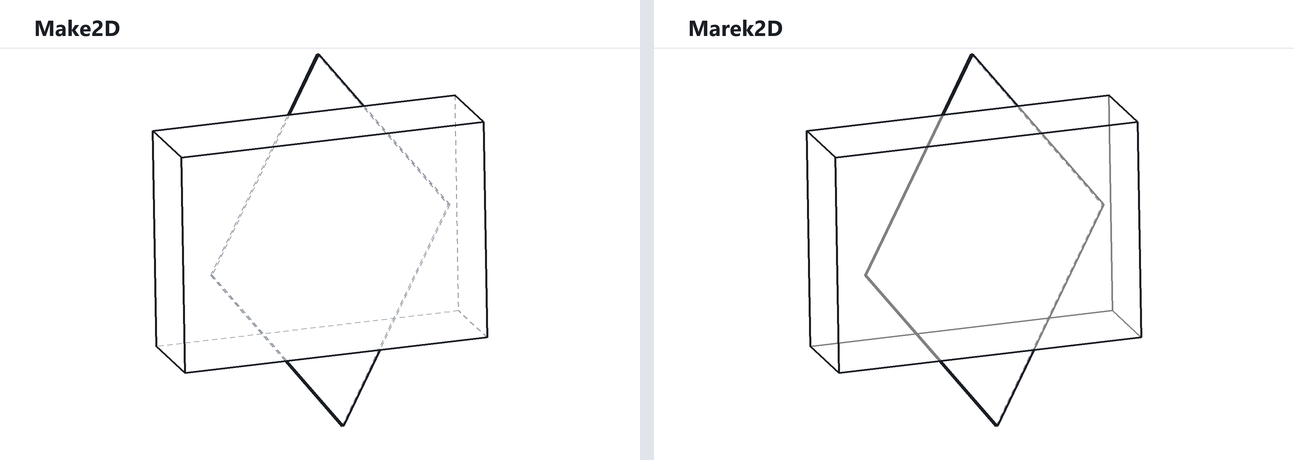
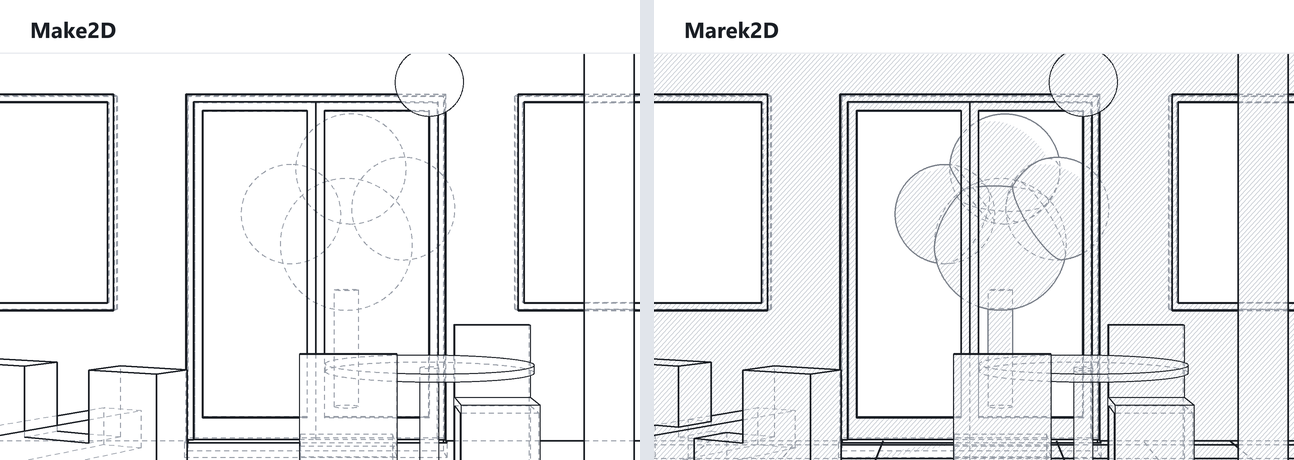
Update marek2d.md

diff --git a/_portfolio/marek2d.md b/_portfolio/marek2d.md
@@ -7,77 +7,215 @@ header:
   teaser: /assets/images/marek2d/marek2d-teaser.png
 ---
 
-`Marek2D` is a Rhino 8 plugin that turns a 3-D model into a 2-D line drawing of the current viewport, as an alternative to Rhino's built-in `Make2D` command.
-It decides which edges are visible with its own occlusion test instead of trusting Rhino's, checked against independently computed ground truth on hundreds of randomized test scenes, and it adds a few things `Make2D` doesn't do.
-It's free to use (search for `Marek2D` in the PackageManager), but YMMV, and feedback is welcome.
+`Marek2D` is a plugin for Rhino 8 and later that turns a 3-D model into a 2-D line drawing of the current view, as an alternative to Rhino's built-in `Make2D` command.
+It's free to use (search for `Marek2D` in the Package Manager), but YMMV, and feedback is welcome.
 
-In each comparison below: black lines are visible, grey dashed lines are hidden, and solid grey lines are seen through glass.
+![Marek2D's drawing of a room cut by a section, with shadows, glass and furniture](/assets/images/marek2d/marek2d-room.png)
 
-## Hidden-line accuracy
+## Goals
 
-`Marek2D` checks every edge against the model itself and splits it exactly where it passes out of view, including tricky cases like a bar running through a notch in a panel, as here, and edges that two objects share.
+`Make2D` is how most Rhino users get line drawings out of a model, and most of them spend time afterwards fixing what it got wrong and adding what it left out.
+`Marek2D` sets out to make that cleanup unnecessary:
+
+- **Correct lines.** Every line should be drawn where it is seen, hidden where it is hidden, and split exactly where it passes out of view. `Marek2D` checks each line against the 3-D model itself rather than trusting a single pass of Rhino's hidden-line engine, and it is tested against independently computed ground truth on hundreds of randomized scenes.
+- **A drawing, not a starting point.** Sections with poché, objects seen through glass, shadows, the model's own hatches and text, and good first guesses for line weights and greyscale, so the result is close to ready for print or import to Illustrator.
+- **Familiar.** It is used like `Make2D`: the same selection, the same kind of options with the same names where they mean the same thing, and the same layer conventions.
+- **Fast enough.** The extra checking does take time, but the aim is to stay within an order of magnitude of `Make2D`'s time, with a progress bar, a time estimate, and `Esc` cancellability throughout.
+
+In the comparisons below, black lines are visible, grey dashed lines are hidden, and solid grey lines are seen through glass.
+
+## What it fixes
+
+### Hidden lines at notches and inside corners
+
+Where one object passes through a notch or recess in another, `Make2D` often gets the hidden lines wrong: edges shown that are hidden, or hidden that are in view.
+In 16 of 20 randomized scenes of a bar through a notched panel, at least one of `Make2D`'s edges was wrong.
+`Marek2D` splits each edge exactly where it passes behind something, and drew all 20 correctly.
 
 ![Make2D and Marek2D drawings of a bar passing through a notched panel](/assets/images/marek2d/marek2d-hidden-lines.png)
 
-## Intersection lines
+### Hidden edges drawn as visible, on plain boxes
 
-Where one solid passes through another, Marek2D draws the line where their surfaces meet, on both objects' layers.
-(`Make2D` leaves it out.)
-These computed intersections are ephemeral for the purposes of the drawing, and don't need to be stored in your model.
+Make2D's errors are not all on tricky geometry; they can be caused by an object's relative size or orientation to the camera.
+In the test room further down, `Make2D` draws edges that are out of sight on simple objects.
+On the bookshelf, the shelf at eye level is seen exactly edge-on, and `Make2D` draws two of its back edges as visible lines behind the front edge:
 
-![Make2D and Marek2D drawings of a thin panel passing through a box](/assets/images/marek2d/marek2d-intersections.png)
+![Close-ups of Make2D's and Marek2D's drawings of a bookshelf's shelf seen edge-on](/assets/images/marek2d/marek2d-shelf.png)
 
-## Seeing through glass
+On a chair seen from behind, `Make2D` mistakenly draws a hidden edge across the top corner of the chair's back:
+
+![Close-ups of Make2D's and Marek2D's drawings of the top corner of a chair's back](/assets/images/marek2d/marek2d-chair.png)
+
+### Missing lines where solids meet
+
+Where one solid passes into another (a column into a slab, a beam into a wall, a pipe through a floor) their surfaces meet along a line that belongs to neither object, and `Make2D` doesn't draw it.
+The usual fix is to manually generate those intersection edges.
+`Marek2D` finds them while drawing, on both objects' layers, without adding anything to your model.
+
+![Make2D and Marek2D drawings of a column passing through a ceiling slab](/assets/images/marek2d/marek2d-intersections-room.png)
+
+### Text drawn over everything
+
+`Make2D` copies text into the drawing whole, on top of everything, so a sign on a wall still shows through the crate standing in front of it.
+`Marek2D` draws text as the outlines of its letters, at the size and angle it is shown, and hides it like any other line.
+
+![Make2D and Marek2D drawings of a crate in front of a wall, each with text](/assets/images/marek2d/marek2d-text.png)
+
+### And a few smaller ones
+
+- A curve passing in front of a curved surface can come out hidden where it is in view (seen on a curve passing just in front of a cylinder's top).
+- Clipping planes' include and exclude lists: `Make2D` applies them even when they are switched off, and ignores the sublayers of a listed layer. `Marek2D` follows what the viewport shows.
+- `Make2D` leaves modeled hatches out of the drawing altogether. `Marek2D` carries them through to the drawing.
+
+## What it adds
+
+Most of the examples here can be demonstrated in a small test scene: a room cut open by a clipping plane, with a glazed door and windows, a tree outside, furniture, a plant, a floor hatch and the sun.
+
+![Make2D and Marek2D drawings of the whole room](/assets/images/marek2d/marek2d-room-pair.png)
+
+### Seeing through glass
 
 `Make2D` treats glass as solid, so everything behind a window becomes a hidden line.
-`Marek2D` puts what is seen through transparent objects on its own `Through_Glass` layer, for styling separately.
+`Marek2D` puts what is seen through transparent objects on its own `Through_Glass` layer, to style separately (and on `Hidden` too, since it is behind something).
+An object counts as glass if its material has some transparency, or a name with "glass", "clear", "window", "transparent" or "translucent" in it.
 
-![Make2D and Marek2D drawings of a box seen through a pane of glass](/assets/images/marek2d/marek2d-glass.png)
+![Make2D and Marek2D drawings of a tree seen through a glazed door](/assets/images/marek2d/marek2d-glass.png)
 
-## Shadows
+### Shadows
 
-With the sun set up in the model, `Marek2D` adds closed curves around every visible area in shadow, whether cast or self-shadowed.
-These areas are hatched for you, as plain lines ready for print or export, and also as a grouped hatch on its own layer, so the pattern can be changed with one click. Turn off whichever of the two you don't need.
-The hatch lines run in the direction of the sunlight as the view shows it, so the long edges of cast shadows are lined by unbroken hatch lines.
-In a section, the shadows come from the whole model before the cut by default, so a roof the section removes still shades the room below, or from the model as cut.
+With the sun on in Rhino's `Sun` panel, `Marek2D` shades every visible area in shadow, whether cast or self-shadowed, with closed outlines around each area.
+The hatch is ready as plain lines for print or export, and also as one grouped hatch, so the pattern can be changed with one click.
+Its lines run in the direction of the sunlight as the view shows it, so the long edges of cast shadows are lined by unbroken hatch lines.
+In a section, the shadows come from the whole model before the cut by default, so a roof the section removes still shades the room below; or from the model as cut.
 
 ![Make2D and Marek2D drawings of a box, a cylinder and a sphere on a slab in sunlight](/assets/images/marek2d/marek2d-shadows.png)
 
-Also:
-the output layers mirror the model's own layers, in a fixed order (top to bottom: sections, poché, visible, through glass, hidden, shadows), which carries over to an Illustrator export;
-clipping planes are applied the way the viewport shows them, including hidden planes, caps to hide solid interiors, and include/exclude lists;
-cut faces get poché hatching, with the sections merged where they touch;
-all hatches use the world origin as their base point, so neighbouring hatches line up, and the same line spacing in any unit system (Hatch1 at scale 1 in feet: a line every 1.5 in, or 38 mm);
-meshes are drawn by their outlines and creases, not by every triangle, and cast and receive shadows like solids;
-lines from layers named "Entourage" come out thinner;
-hatches are exploded for the purposes of the drawing, but don't need to be exploded in your model;
-and standalone curves and hatches are hidden behind solids like everything else.
+### Sections with poché
 
-The trade-off is speed.
-`Marek2D` does much more checking than `Make2D`, so it is slower, noticeably so on large scenes.
+Where an active clipping plane cuts a solid, the section line is drawn heavier on its own layer, and the cut faces are hatched, with sections that touch merged into one region.
+Clipping planes are applied the way the viewport shows them: including hidden planes, depth-limited planes, and planes that cut only some objects.
+
+### Hatches and text from the model
+
+Hatches and text in the model are carried into the drawing as lines, hidden behind solids like anything else, without exploding anything in the model.
+All hatches, the model's and `Marek2D`'s own, line up with the world origin, so neighboring hatches continue each other's lines.
+
+![Make2D and Marek2D drawings of a corner of the room with a tiled floor](/assets/images/marek2d/marek2d-hatches.png)
+
+### Meshes by their lines
+
+Which of a mesh's edges `Make2D` draws is hard to predict: here it drew the faceted pot without its facets.
+`Marek2D` draws a mesh's outline, its open edges and its creases (where faces meet at more than an angle you choose), so a smooth mesh comes out as a clean outline and a faceted one with its facets.
+Meshes cast and receive shadows like solids, and can be cut by clipping planes.
+
+![Make2D and Marek2D drawings of a plant with a faceted pot and smooth foliage](/assets/images/marek2d/marek2d-meshes.png)
+
+### Layers you can work with
+
+The drawing's layers mirror the model's, under one layer per kind of line, in a fixed order (sections on top, shadows at the bottom) that carries over to an Illustrator export.
+Lines from layers named "Entourage" come out thinner, so people, trees and furniture sit back from the architecture.
+A new drawing lands on top of the previous one, even after you've moved that one, so a redrawn view lines up with the last.
+
+## How it works
+
+`Make2D` hands the model to Rhino's hidden-line engine, which works out in one pass what is seen and draws it.
+That engine is fast, but where it is wrong (at a notch, a shared edge, a curve grazing a surface) the drawing is wrong, and there is no second opinion.
+
+`Marek2D` asks a more direct question, one line at a time.
+It first prepares the model: cuts it at the clipping planes and caps the cuts, unpacks blocks, and turns hatches and text into curves.
+It then collects every line the drawing could contain: the edges of every object, the outlines of curved surfaces, the lines where objects pass through each other, the section lines and the model's own curves.
+For each line, it works out from the 3-D model where the line could pass behind something, and there fires a ray from the line towards the camera: if the ray hits a solid, that stretch is hidden; if it only passes through glass, it is seen through glass; otherwise it is in view.
+The line is split at exactly those places.
+Shadows are the same question asked from the sun's position: a point is in shadow when the ray towards the sun is blocked.
+
+![How Marek2D makes a drawing, step by step, with the options that add time to each step](/assets/images/marek2d/marek2d-how.png)
+
+It should be noted that the extra checking is slower than `Make2D`.
+The test room takes about 11 seconds against `Make2D`'s 1.3; a 260-object house about 20 seconds against 2; a 22,000-object model about 15 minutes against under a minute.
+We think that is a good tradeoff:
+
+- The checking is what makes the lines right. A hidden-line error in a drawing is hard to spot and slow to fix by hand, and a single wrong line can say something false about the design.
+- The same checking is what makes the rest possible. Glass is just a third answer to "what is in front of this line?", and shadows are the same question asked from the sun, so they come with the method rather than as separate, approximate passes.
+- Seconds or minutes of the computer's time replace much longer stretches of tracing, retouching and redrawing by hand, every time the design changes and the drawing is made again.
+- You can always see where it is: the command line gives a first estimate, the progress bar names the stage and the time left, and `Esc` stops it without leaving anything behind.
 
 ## Using it
 
-Select the objects to draw, make the view you want active (parallel or perspective), and run `Marek2D`.
-Change any options, then press `Enter`.
-The drawing is placed flat on the world XY plane, on layers under `Marek2D` (or a name of your choice, see `LayerName`), each with sublayers matching your model's layers.
-It lands on top of the previous drawing, even if you've moved that one (see `RegisterWithPrevious`), and is left selected, so you can move it off at once.
-The command line shows an estimate and the progress, and `Esc` cancels without leaving anything behind.
-A toolbar button is available from the Toolbars panel (hidden by default).
+### Installing
 
-Options, remembered between runs:
+1. In Rhino, open the Package Manager (`PackageManager` command).
+2. Search for `Marek2D` and install it.
+3. Restart Rhino. The `Marek2D` command is then available; a toolbar button is in the Toolbars panel (hidden by default).
 
-- **`CreateHiddenLines`** (`No`): also draw hidden edges, dashed, on `Hidden`.
-- **`ShowTangents`** (`No`): draw the edges between smoothly joined faces.
-- **`CreateClippingPlaneIntersections`** (`Yes`): draw section lines where active clipping planes cut solids, on `Clipping`, and poché the cut faces on `Poche hatch`: the merged outlines on `Boundaries`, the hatching as lines on `Exploded`, and as a grouped hatch on `Unexploded` (turned off).
-- **`CreateObjectIntersections`** (`Yes`): draw the lines where solids pass through each other. Unlike with `Make2D`, you don't need to add these intersections to your model: they are generated temporarily, for the drawing only.
-- **`ThroughGlass`** (`Yes`): draw what is seen through transparent materials on `Through_Glass`. An object counts as glass if its material has transparency or a name containing "glass", "clear", "window", "transparent" or "translucent".
-- **`IncludeHatches`** (`Yes`): include hatch patterns in the drawing, occluded when behind solids like any other line. Unlike with `Make2D`, you don't need to explode hatches in your model: they are exploded temporarily, for the drawing only.
-- **`Shadows`** (`WholeGeometry`): with the Sun panel's sun on, add the areas in shadow on `Shadow hatch`: the hatching as lines on `Exploded`, as a grouped hatch on `Unexploded`, and the areas' outlines on `Boundaries` (both turned off). `WholeGeometry` shades with the whole model, as if uncut; `CutGeometry` with the model as cut; `Off` draws no shadows. Cut faces are never shaded. With the sun off, no shadows are drawn whatever this is set to.
-- **`RegisterWithPrevious`** (`Yes`): place the drawing where the previous `Marek2D` drawing is, following it if you've moved it, so a redrawn view lines up with the last one. `No` puts its lower-left corner at the world origin.
-- **`BlockClipping`** (`ByInstance`): how a clipping plane's include/exclude lists apply to blocks. `ByInstance` matches the block instance and its layer, as `Make2D` does; `ByMember` matches each block member's own layer, as the viewport does.
-- **`MeshCreaseAngle`** (`30`): on a mesh, an edge between faces that meet more sharply than this angle (in degrees) is drawn as a line. A smooth mesh comes out as its outline, a faceted one with its facets.
-- **`LayerName`** (`Marek2D`): the top-level layer for the drawing.
+### Making a drawing
 
-Small details need a fine enough model tolerance; `Marek2D` warns when the tolerance is coarse for the geometry.
-Large models take a while; the estimate is refined as it runs.
+1. Set up the view to draw: any viewport, parallel or perspective. Clipping planes active in that view are applied.
+2. For shadows, turn on the sun in the Sun panel.
+3. Select the objects to draw (or run the command first and select them when asked).
+4. Run `Marek2D`.
+5. Change any options at the prompt, then press `Enter`.
+6. Wait for the drawing: the command line shows an estimate and the progress. `Esc` cancels and removes everything drawn so far.
+7. The drawing appears flat on the world XY plane, on top of the previous drawing (or at the origin), and is left selected, ready to move.
+8. One `Undo` removes the whole drawing and its layers.
+
+### Options
+
+Each option is remembered between runs; defaults are shown in brackets.
+
+- **`CreateHiddenLines`**: draw hidden lines.
+  - `Yes`: hidden lines are drawn, dashed, on `Hidden`.
+  - [`No`]: only what is seen.
+- **`ShowTangents`**: edges between faces that meet smoothly (a fillet's edges).
+  - `Yes`: drawn.
+  - [`No`]: left out.
+- **`CreateClippingPlaneIntersections`**: the view's clipping planes.
+  - [`Yes`]: the model is cut as the view shows it, with section lines on `Clipping` and poché on `Poche hatch`.
+  - `No`: clipping planes are ignored and the whole model is drawn.
+- **`CreateObjectIntersections`**: lines where solids pass through each other.
+  - [`Yes`]: drawn, on both objects' layers.
+  - `No`: left out, as `Make2D` does.
+- **`ThroughGlass`**: what is seen through transparent objects.
+  - [`Yes`]: drawn on `Through_Glass` (and on `Hidden`).
+  - `No`: glass hides what is behind it, as `Make2D` does.
+- **`IncludeHatches`**: hatches in the model.
+  - [`Yes`]: their pattern lines are drawn, hidden behind solids like any line.
+  - `No`: left out, as `Make2D` does.
+- **`IncludeText`**: text in the model.
+  - [`Yes`]: drawn as the outlines of its letters, at the size shown, hidden behind solids like any line. Text set to face the view faces the drawing.
+  - `No`: left out.
+- **`RegisterWithPrevious`**: where the drawing goes.
+  - [`Yes`]: where the previous `Marek2D` drawing is, following it if it has been moved.
+  - `No`: its lower-left corner at the world origin.
+- **`BlockClipping`**: how a clipping plane's include and exclude lists apply to blocks.
+  - [`ByInstance`]: by the block instance and its layer, as `Make2D` does.
+  - `ByMember`: by each object's own layer inside the block, as the viewport does.
+- **`Shadows`**: shadows from the Sun panel's sun (none while it is off).
+  - [`WholeGeometry`]: cast by the whole model, as if uncut, so a roof the section removes still shades the room.
+  - `CutGeometry`: cast by the model as cut.
+  - `Off`: no shadows.
+- **`MeshCreaseAngle`** [`30`]: in degrees. On a mesh, an edge between faces meeting more sharply than this is drawn.
+- **`LayerName`** [`Marek2D`]: the top-level layer for the drawing.
+
+Small details need a model tolerance fine enough to resolve them: `Marek2D` warns when the tolerance is coarse for the geometry.
+
+### The drawing's layers
+
+Everything goes under one top-level layer (`Marek2D`, or the `LayerName` you choose).
+Under each kind of line, sublayers reflect the model's own layer tree, so each object's lines end up on a layer named after its own; the tree below shows the top-level layers.
+Layers that would be empty aren't made, and every layer starts turned on.
+
+- **`Marek2D`**
+  - **`Clipping`**: section lines, where clipping planes cut solids. Black, 0.5mm.
+  - **`Poche hatch`**: the cut faces.
+    - **`Unexploded`**: one hatch per region, all grouped so that you can click and change the pattern in one go.
+    - **`Exploded`**: the same hatches as plain lines, for print and export. 0.125mm.
+    - **`Boundaries`**: the outline of each cut region, merged where sections touch, to re-hatch or thicken as you like. 0.5mm.
+  - **`Visible`**: everything that can be seen. Black, 0.25mm (0.125mm if under an "Entourage" sublayer).
+  - **`Through_Glass`**: what is seen through glass. Grey, 0.25mm.
+  - **`Hidden`**: hidden lines, when `CreateHiddenLines` is on. Grey, dashed, 0.125mm.
+  - **`Shadow hatch`**: the areas in shadow, when the sun is on and `Shadows` is set.
+    - **`Unexploded`**: one hatch per area, all grouped, with lines running along the sunlight.
+    - **`Exploded`**: the same hatches as plain lines. Grey, 0.0625mm.
+    - **`Boundaries`**: the closed outline of each shaded area, to re-hatch as you like.
+
+Please email hello@michalow.ski with any questions or feedback.
